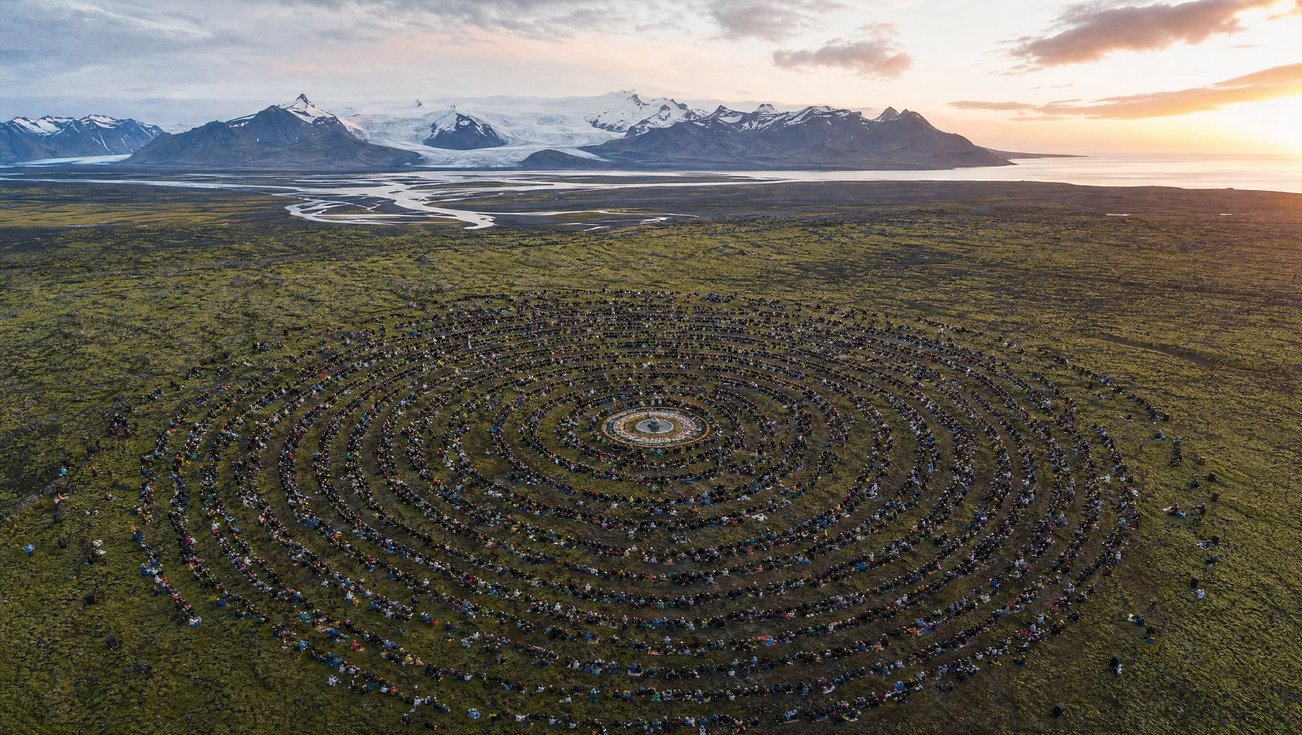
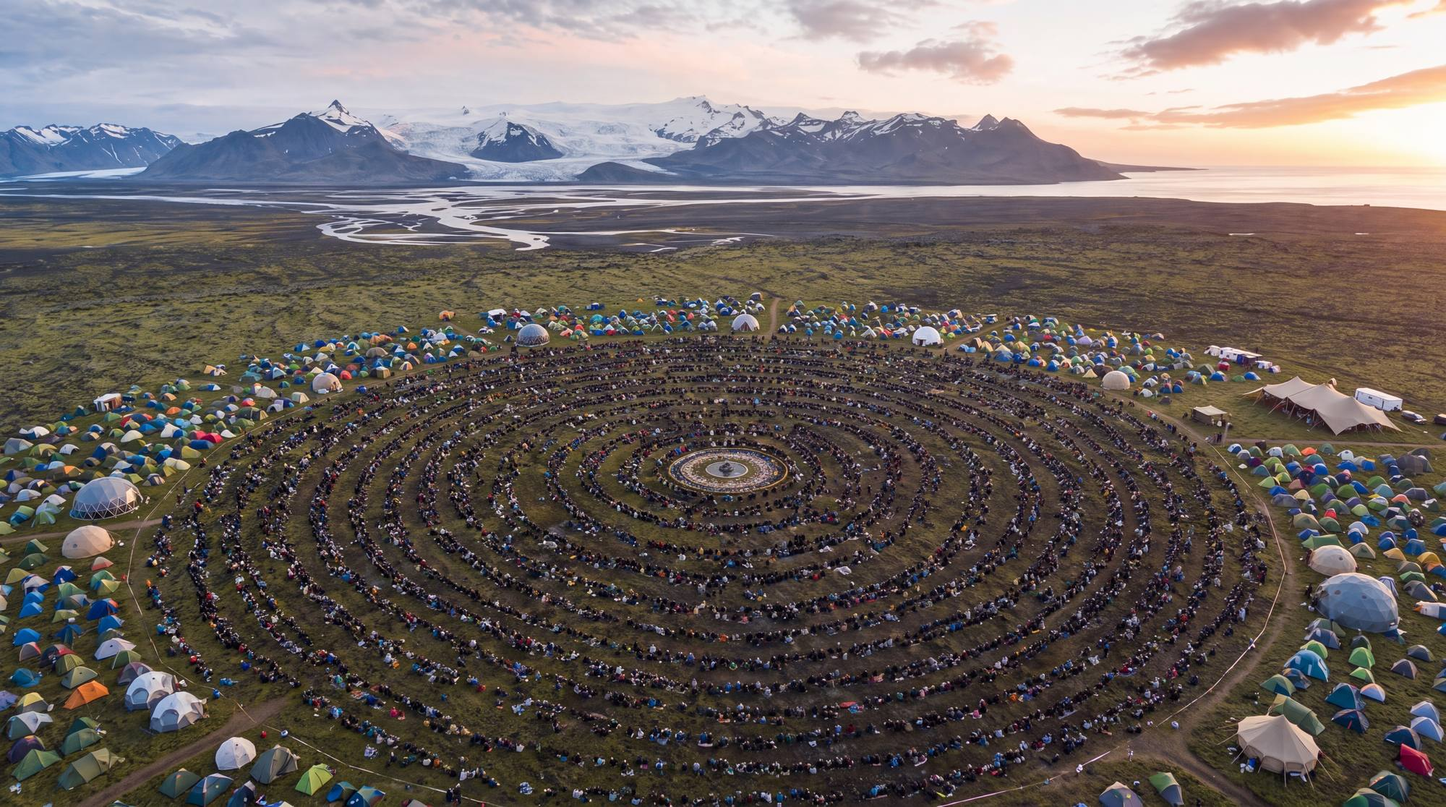
Campground ceremony full bleed, centre the pulse on Iceland, fix the code line

diff --git a/index.html b/index.html
@@ -53,10 +53,9 @@ a:focus-visible,button:focus-visible,input:focus-visible{outline:2px solid var(-
    Tap to copy, because people have to paste this into the cart themselves. */
 /* three columns so the code sits dead centre in the frame; the flanking
    phrases are different lengths and an inline flow would push it off axis */
-.codeline{display:grid;grid-template-columns:1fr auto 1fr;align-items:center;column-gap:.6rem;
-  width:min(620px,100%);margin:0 auto;font-size:.92rem;color:rgba(240,246,249,.8);letter-spacing:.01em;line-height:1.5}
-.codeline>span:first-child{justify-self:end;text-align:right}
-.codeline>span:last-child{justify-self:start;text-align:left}
+.codeline{display:flex;flex-wrap:wrap;align-items:center;justify-content:center;gap:.5rem .7rem;
+  width:min(620px,100%);margin:0 auto;font-size:.92rem;color:rgba(240,246,249,.8);letter-spacing:.01em;line-height:1.5;text-align:center}
+.codeline>span{white-space:nowrap}
 @media (max-width:560px){
   /* the scarcity clause takes its own line instead of breaking mid-phrase */
   .hero .codeline{flex-wrap:wrap;justify-content:center;row-gap:.45rem}
@@ -327,8 +326,29 @@ h2{font-size:clamp(1.9rem,4.5vw,3rem);font-weight:700;letter-spacing:-.015em;lin
 .journey-sticky{position:sticky;top:0;height:100vh;overflow:hidden;background:radial-gradient(70% 55% at 25% 22%, rgba(73,41,145,.30), transparent 68%), radial-gradient(60% 50% at 78% 72%, rgba(244,39,137,.16), transparent 70%), #0b0a16}
 
 /* film strip — the story runs once, then holds on the last frame */
-.ceremony-shot{margin:3rem auto 0;max-width:1180px}
-.ceremony-shot img{width:100%;display:block;border-radius:18px;border:1px solid rgba(240,246,249,.12);box-shadow:0 24px 70px rgba(0,0,0,.5)}
+/* full bleed: the campground runs edge to edge, the invitation sits on it */
+.ceremony-shot{position:relative;z-index:2;margin:clamp(2.4rem,6vw,4rem) 0 0;width:100%;isolation:isolate}
+.ceremony-shot img{width:100%;display:block}
+.ceremony-shot::after{content:"";position:absolute;inset:0;pointer-events:none;
+  background:linear-gradient(180deg,rgba(11,10,22,.62) 0%,rgba(11,10,22,.18) 24%,rgba(11,10,22,0) 46%,rgba(11,10,22,.42) 80%,rgba(11,10,22,.86) 100%)}
+.ceremony-shot figcaption{position:absolute;left:0;right:0;top:clamp(1.2rem,4vw,2.6rem);z-index:2;
+  display:flex;flex-wrap:wrap;align-items:baseline;justify-content:center;gap:.4rem clamp(1.6rem,5vw,3.4rem);
+  text-align:center;padding:0 1rem}
+.cs-stats{display:flex;flex-direction:column;align-items:center;gap:.15rem}
+.cs-stats b{font-size:clamp(1.3rem,3.4vw,2.1rem);font-weight:700;line-height:1;color:var(--solar);
+  text-shadow:0 2px 20px rgba(0,0,0,.9)}
+.cs-stats>span{font-size:clamp(.52rem,1vw,.64rem);letter-spacing:.2em;text-indent:.2em;text-transform:uppercase;
+  color:rgba(240,246,249,.72);text-shadow:0 1px 12px rgba(0,0,0,.9)}
+.cs-note{flex-basis:100%;margin-top:.5rem;font-size:clamp(.74rem,1.4vw,.9rem);color:rgba(240,246,249,.8);
+  text-shadow:0 1px 16px rgba(0,0,0,.95)}
+.cs-invite{position:absolute;left:0;right:0;bottom:clamp(1.4rem,5vw,3.2rem);z-index:2;text-align:center;padding:0 1rem;
+  font-size:clamp(1.25rem,3.4vw,2.3rem);font-weight:700;letter-spacing:-.02em;
+  background:linear-gradient(100deg,#fff7e0,var(--solar) 44%,var(--corona));
+  -webkit-background-clip:text;background-clip:text;color:transparent;
+  filter:drop-shadow(0 2px 22px rgba(0,0,0,.95))}
+@media (max-width:560px){
+  .ceremony-shot img{min-height:56vh;object-fit:cover;object-position:center 58%}
+}
 .filmstrip{margin:3rem auto 0;max-width:1180px}
 .strip-over{position:absolute;left:0;right:0;bottom:0;z-index:2;padding:clamp(1.6rem,5vw,3rem) clamp(1.2rem,4vw,2.6rem);text-align:center;pointer-events:none;background:linear-gradient(180deg,transparent,rgba(7,7,11,.72) 55%,rgba(7,7,11,.92))}
 .strip-over span{display:block;transition:opacity .8s ease}
@@ -381,7 +401,7 @@ h2{font-size:clamp(1.9rem,4.5vw,3rem);font-weight:700;letter-spacing:-.015em;lin
 .j-aerial{position:absolute;inset:0;width:100%;height:100%;will-change:transform,opacity}
 .j-trod2{position:absolute;left:50%;top:50%;width:120vmin;aspect-ratio:1;transform:translate(-50%,-50%);opacity:0;will-change:transform,opacity}
 .j-trod2 svg{width:100%;height:100%;display:block}
-#worldmap{position:absolute;left:50%;top:50%;transform:translate(-50%,-50%);width:min(94vw,1080px);aspect-ratio:2/1;opacity:0;will-change:opacity,transform}
+#worldmap{position:absolute;left:50%;top:50%;transform:translate(-44.86%,-13.94%);width:min(94vw,1080px);aspect-ratio:2/1;opacity:0;will-change:opacity,transform}
 .j-zoom{position:absolute;inset:0;display:flex;align-items:center;justify-content:center;will-change:transform,opacity}
 .j-rings{width:150vmin;height:150vmin;flex:none;opacity:0;will-change:opacity}
 .j-photo{position:absolute;left:50%;top:50%;width:46vmin;height:46vmin;transform:translate(-50%,-50%);border-radius:50%;overflow:hidden}
@@ -408,7 +428,7 @@ h2{font-size:clamp(1.9rem,4.5vw,3rem);font-weight:700;letter-spacing:-.015em;lin
 .j-lines{position:absolute;left:50%;top:50%;transform:translate(-50%,-50%);width:min(92%,760px);text-align:center;pointer-events:none;z-index:4}
 .j-lines span{display:block;position:absolute;left:0;right:0;top:50%;transform:translateY(-50%);opacity:0;font-size:clamp(2.1rem,6vw,4.2rem);font-weight:700;letter-spacing:-.025em;line-height:1.05;background:linear-gradient(100deg,#fff7e0,var(--solar) 42%,var(--corona));-webkit-background-clip:text;background-clip:text;color:transparent;filter:drop-shadow(0 3px 30px rgba(0,0,0,.85)) drop-shadow(0 1px 6px rgba(0,0,0,.7));will-change:opacity,transform}
 /* the first two lines ride high, clear of the orb they sit over */
-.j-lines span[data-l="0"],.j-lines span[data-l="1"]{top:calc(50% - 16vh)}
+.j-lines span[data-l="0"],.j-lines span[data-l="1"]{top:calc(50% - 24vh)}
 .j-lines span[data-l="2"]{top:calc(50% - min(3.4vw,39px))}
 
 /* testimonials */
@@ -566,15 +586,20 @@ body.bar-visible{padding-bottom:64px}
   <div class="broadcast-veil" aria-hidden="true"></div>
   <div class="wrap moment-inner">
     <span class="badge"><span class="dot"></span>Live from Snæfellsjökull &middot; August 12 &middot; 17:47 UTC</span>
-    <h2>For two minutes, the planet pauses.</h2>
+    <h2>The pause everyone feels at once.</h2>
     <p class="lead">The moon covers the sun over the North Atlantic. Day turns to dusk, the birds go quiet, and everyone standing in that shadow stops at the same second.</p>
     <p class="lead">In Iceland, 3,333 people sit in fifteen rings around a water altar. Forty-five minutes of ceremonial music builds, and then it stops. Nobody speaks.</p>
     <p class="lead">You do not have to be in the meadow for that to reach you. Wherever you are, you can stop when they stop. That is the whole practice, and it is the one your ring hands back to you every day after: one pulse, one pause, one breath into your own life.</p>
-    <p class="lead accent">Join us, wherever you are.</p>
-    <figure class="ceremony-shot">
-      <img decoding="async" src="assets/ceremony-circle.jpg" alt="Aerial view of fifteen rings of people, thousands of them, seated around a flowered water altar on an Icelandic lava field beneath a glacier" loading="lazy">
-    </figure>
   </div>
+  <figure class="ceremony-shot">
+    <img decoding="async" src="assets/ceremony-circle.jpg" alt="Aerial view of fifteen rings of people seated around a flowered water altar on an Icelandic lava field, a festival campground of tents and domes encircling them, a glacier on the horizon" width="2000" height="1116" loading="lazy">
+    <figcaption>
+      <span class="cs-stats"><b>Thousands</b><span>of hands</span></span>
+      <span class="cs-stats"><b>Two</b><span>intentions</span></span>
+      <span class="cs-note">One for yourself. One for the planet.</span>
+    </figcaption>
+    <p class="cs-invite">Join us, wherever you are.</p>
+  </figure>
 </section>
 
 <!-- Break-autopilot photo section removed per Adam. Its "Breaking autopilot"
@@ -1075,13 +1100,17 @@ if(wm&&typeof WORLD_DOTS!=='undefined'){
       wctx.arc(n.x*wmW,n.y*wmH,r,0,6.283);
       wctx.fill();
     }
+    /* the epicentre is now the centre of frame, so it has to carry the eye */
     const ix=ICE.x*wmW, iy=ICE.y*wmH;
-    const g=wctx.createRadialGradient(ix,iy,0,ix,iy,dotR*7);
-    g.addColorStop(0,'rgba(255,247,224,.95)');g.addColorStop(.4,'rgba(251,205,102,.55)');g.addColorStop(1,'rgba(251,205,102,0)');
+    const breathe=1+0.12*Math.sin(tms/900);
+    const gR=dotR*15*breathe;
+    const g=wctx.createRadialGradient(ix,iy,0,ix,iy,gR);
+    g.addColorStop(0,'rgba(255,247,224,.98)');g.addColorStop(.18,'rgba(255,240,200,.7)');
+    g.addColorStop(.45,'rgba(251,205,102,.34)');g.addColorStop(1,'rgba(251,205,102,0)');
     wctx.fillStyle=g;
-    wctx.beginPath(); wctx.arc(ix,iy,dotR*7,0,6.283); wctx.fill();
+    wctx.beginPath(); wctx.arc(ix,iy,gR,0,6.283); wctx.fill();
     wctx.fillStyle='#fff7e0';
-    wctx.beginPath(); wctx.arc(ix,iy,dotR*1.6,0,6.283); wctx.fill();
+    wctx.beginPath(); wctx.arc(ix,iy,dotR*2.4*breathe,0,6.283); wctx.fill();
   }
   function wmLoop(ts){ if(!wmRun)return; wmDraw(ts); if(!wmReduced)requestAnimationFrame(wmLoop); }
   wmSize();
@@ -1294,16 +1323,15 @@ if(jSec&&wm){
     /* Frame land + closing line as one stack, centred and biased up. A fixed top
        anchor reads well at 1440 and dumps half a phone screen of void at 390,
        because the map is 2:1 and a phone frame is not. */
-    const bandH=(BAND_BOT-BAND_TOP)*h;
-    const fs=Math.min(Math.max(33.6,innerWidth*0.06),67.2);
-    const lineH=fs*1.25, gap=vh*0.09;
-    const top=Math.max(vh*0.06,(vh-(bandH+gap+lineH))/2-vh*0.06);
-    const centred=vh/2-h/2;
-    const dy=(top-(centred+BAND_TOP*h))*s;
-    wm.style.transform='translate(-50%,calc(-50% + '+dy.toFixed(1)+'px)) scale('+sc.toFixed(4)+')';
-    const bandBottom=centred+dy+BAND_BOT*h;
-    const lineHome=vh/2-Math.min(innerWidth*0.034,39);
-    return ((bandBottom+gap+lineH/2)-lineHome)*s;
+    /* Iceland sits at 44.86% / 13.94% of the map. As the zoom-out settles we slide
+       the map so that point lands dead centre of frame, the way the water altar
+       sits at the centre of the rings. The orb and the ripples land there too. */
+    const dy=0.3606*h*s;          /* (0.5 - 0.1394) * height  */
+    const dx=0.1028*h*s;          /* (0.5 - 0.4486) * width, width = 2h */
+    wm.style.transform='translate(calc(-50% + '+dx.toFixed(1)+'px),calc(-50% + '+dy.toFixed(1)+'px)) scale('+sc.toFixed(4)+')';
+    /* the closing line no longer hangs off the band bottom, which is now far below
+       the fold; it sits a fixed distance under the centred epicentre instead */
+    return vh*0.21*s;
   }
   let jRipOn=false;
   function jTick(){
